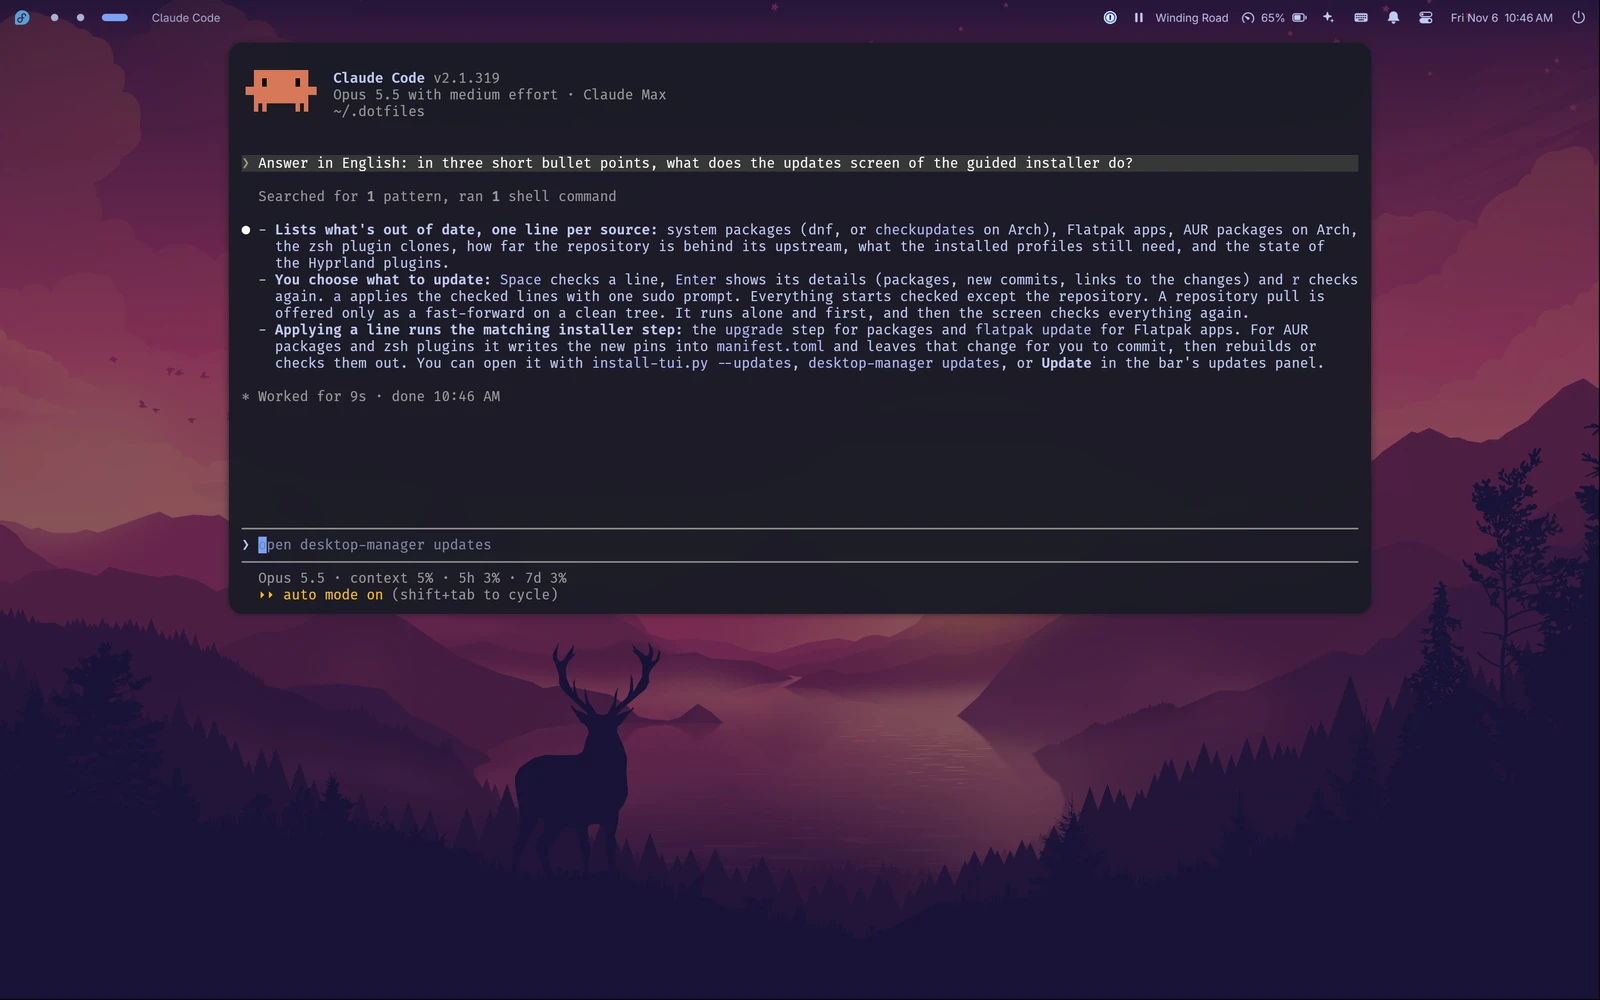
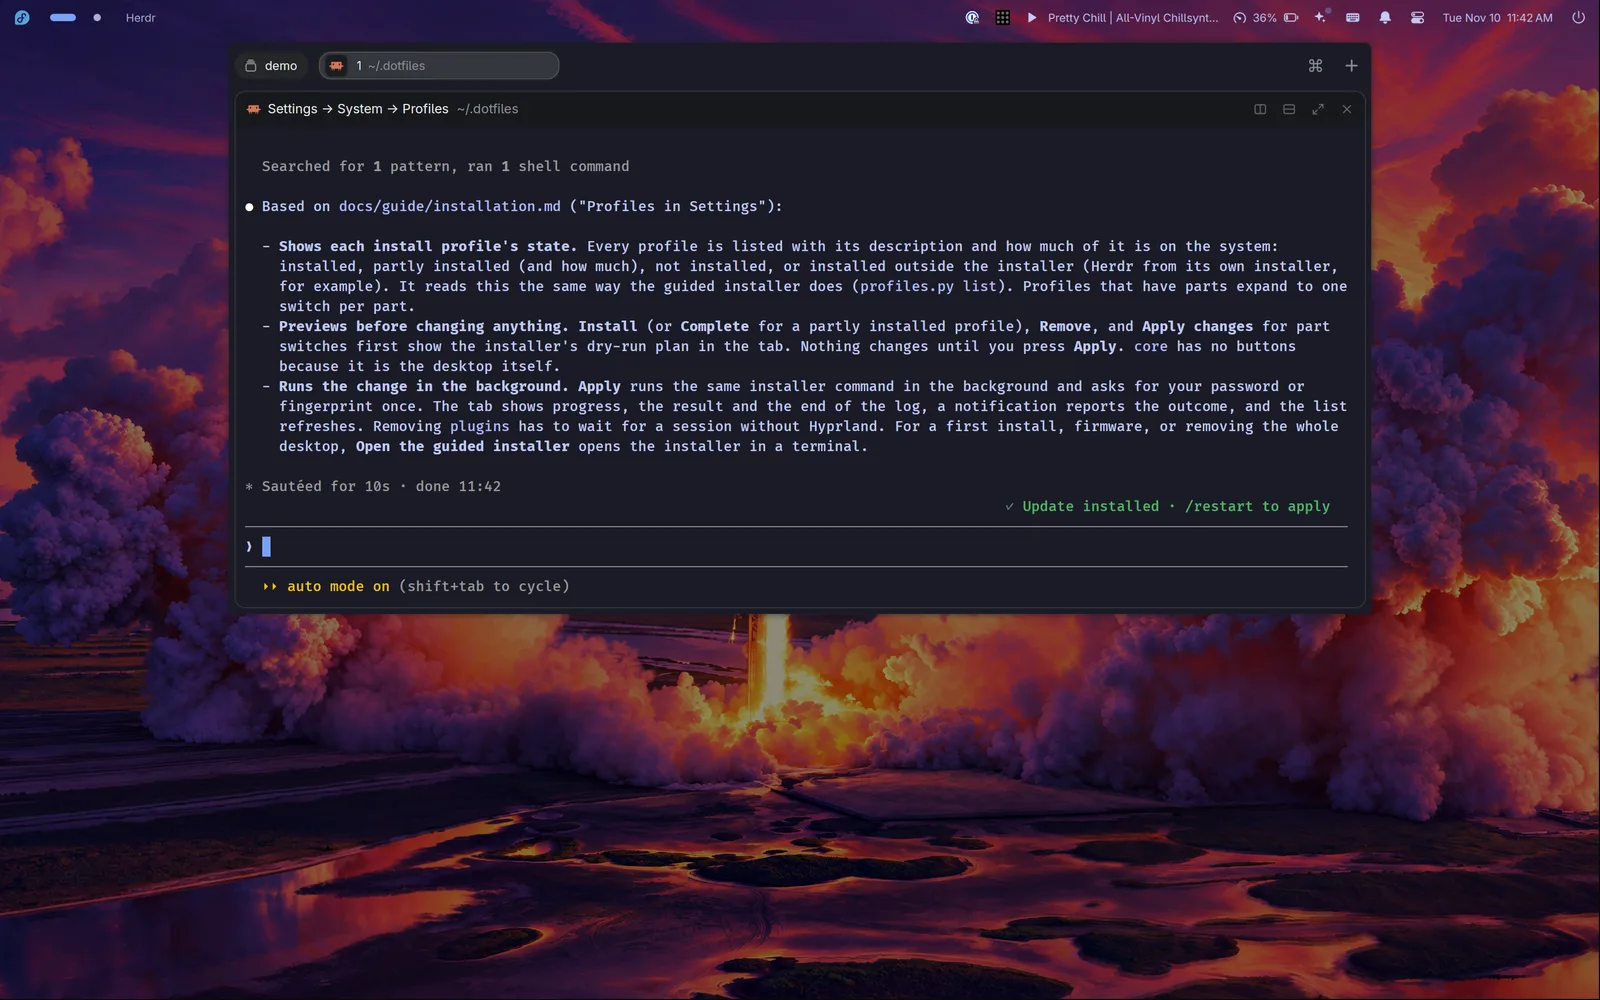
docs: README opening animation through Settings themes, the radio in the table, new pictures (#57)
The opening animation applies each theme from Settings → Appearance. The radio moves into "And the rest", which now holds the launcher, Control Center, themes, radio, notifications, emoji, on-screen keyboard and AI console; new launcher, themes and AI console (Herdr) pictures, and the KDE Store picture is dropped.

diff --git a/README.md b/README.md
@@ -15,7 +15,7 @@
 </p>
 
 <p align="center">
-  <img alt="The Theming panel switching themes live: wallpaper, shell, terminal and borders change together" src="docs/screenshots/themes.webp">
+  <img alt="Settings → Appearance applying each theme in turn: wallpaper, shell, bar, dock and borders change together" src="docs/screenshots/themes.webp">
 </p>
 
 ## Highlights
@@ -29,14 +29,6 @@ One shell, no external applets: bar, launcher, Control Center, dock, notificatio
 </p>
 
 `Super + I` opens one Settings panel for network, Bluetooth, displays, sound, power, appearance, the desktop, the AI assistant, keyboard, tablet and privacy. Its **System** section looks after the system with no terminal: it checks for updates and applies them, adds and removes [installer profiles](docs/guide/installation.md#profiles-in-settings) and rebuilds the [Hyprland plugins](docs/guide/plugins.md), in the background, behind one prompt. That prompt is the shell's own Polkit agent: on a machine with a fingerprint reader it asks for the fingerprint first, and **Use password** is one tap away.
-
-### Radio and music
-
-<p align="center">
-  <img alt="The Radio panel: the station list filtered as you type, then the video of the DJ set playing inside the panel" src="docs/screenshots/radio.webp" width="640">
-</p>
-
-`Super + M` opens the [Radio panel](docs/features/radio.md): web radio stations and vinyl DJ sets in categories, YouTube mixes and playlists found as you type, and the ones you save. The sound plays in an mpv of its own, on MPRIS like any other player, so the bar, the lock screen and the media keys control it; the video, when you want it, plays in the panel.
 
 ### An installer in profiles
 
@@ -53,12 +45,12 @@ The [installer](docs/guide/installation.md) comes in profiles: `core` is the des
 | --- | --- |
 | ![The application launcher](docs/screenshots/launcher.webp) | ![The Control Center](docs/screenshots/control-center.webp) |
 | **Launcher.** Apps as you type, then files, sums and unit conversions. | **Control Center.** Network, audio, brightness, media and switches. |
-| ![The Theming panel](docs/screenshots/theming.webp) | ![Icon themes from the KDE Store in the Theming panel](docs/screenshots/kde-store.webp) |
-| **[Themes that reach everything](docs/features/theming.md).** Shell, terminal, GTK and Qt apps, lock screen, wallpapers, fonts and icons in one click: eight themes, liquid Glass and High Contrast among them, plus one drawn from your wallpaper. | **KDE Store.** Cursor and icon themes, searched and installed in place. |
+| ![Settings → Appearance, with the theme cards](docs/screenshots/theming.webp) | ![The Radio panel: the station list filtered as you type, then the video of the DJ set playing inside the panel](docs/screenshots/radio.webp) |
+| **[Themes that reach everything](docs/features/theming.md).** Shell, terminal, GTK and Qt apps, lock screen, wallpapers, fonts and icons in one click: eight themes, liquid Glass and High Contrast among them, plus one drawn from your wallpaper, and cursor and icon themes from the KDE Store. | **[Radio and music](docs/features/radio.md).** `Super + M`: web radio stations and vinyl DJ sets, YouTube mixes and playlists found as you type, and the ones you save. The sound plays in an mpv of its own, on MPRIS like any other player, and the video, when you want it, in the panel. |
 | ![Notifications stacked in decks](docs/screenshots/notifications.webp) | ![The emoji picker](docs/screenshots/emoji.webp) |
 | **[Notifications in decks](docs/features/notifications.md).** One deck per app, or per site for browsers, opened on hover or tap. | **Emoji.** Search by name or browse by group, and paste into the focused window. |
-| ![The on-screen keyboard with word suggestions](docs/screenshots/keyboard.webp) | ![The AI console](docs/screenshots/console.webp) |
-| **[On-screen keyboard](docs/features/on-screen-keyboard.md).** Slide between keys, hit likely letters more easily, tap suggestions in Italian and English. It learns your words, and nothing you type leaves the machine. | **[AI console](docs/features/ai-assistant.md).** Claude Code, Codex or any coding agent dropping down from the bar, with a state icon, usage meters and a notification when it needs you. |
+| ![The on-screen keyboard with word suggestions](docs/screenshots/keyboard.webp) | ![The AI console: the Herdr app with Claude Code answering a question](docs/screenshots/console.webp) |
+| **[On-screen keyboard](docs/features/on-screen-keyboard.md).** Slide between keys, hit likely letters more easily, tap suggestions in Italian and English. It learns your words, and nothing you type leaves the machine. | **[AI console](docs/features/ai-assistant.md).** Claude Code, Codex or any coding agent dropping down from the bar in the Herdr app, with a state icon, usage meters and a notification when it needs you. |
 
 - **[A real tablet mode](docs/features/tablet-and-touch.md).** Fold the laptop and the shell grows its touch targets, the display follows the sensor, and gestures take over. Gesture touches never reach the app underneath, so a swipe over a video does not pause it.
 - **The small things.** Italian and English everywhere, Alt + Tab, per-app volume, a color picker and text from the screen, a camera and microphone indicator, Steam and gamescope launchers tuned for HiDPI, automounted drives, fingerprint unlock.

diff --git a/docs/development/verification-log.md b/docs/development/verification-log.md
@@ -1057,3 +1057,12 @@ Retaken on the live session with Tokyo Night and Omarchy's sunset-lake wallpaper
 - The four pins, the Hyprgrass patch included, built with `build.py` against the installed 0.57.2 headers: no errors, no unresolved libraries, and Hyprglass, Hyprgrass and HyprCapture embed the new commit. The builds are in `~/.cache/dotfiles/hyprpm-build/` under 0.57.2 keys, so the rebuild at the next login copies them instead of compiling.
 - In a nested 0.57.2 (no seat, `HYPRLAND_NO_SD_VARS`, `HYPRLAND_NO_SD_NOTIFY`, a private bus, temporary XDG directories; the runtime directory under `/run/user/1000`, since a socket path in the scratch folder is over the 108-byte limit): `hyprctl plugin load` of the four `.so`, then a reload with the real `appearance.lua` and `plugins.lua`. No config errors; `plugin:overview:panelHeight` 200, `plugin:hyprgrass:sensitivity` 4, `touch_as_pointer` and `hold_touches` true; the overview opened and closed through `hl.plugin.overview.toggle()`; `hyprctl hyprglass stats` counted frames; the compositor exited cleanly.
 - `VERIFIED` now has `0.57.2-1.fc45.x86_64` next to `0.57.1-1.fc45.x86_64` (a downgrade stays possible) and Arch's `0.57.1-1`; Arch's 0.57.2 is not compiled yet. Still to see: the rebuild at the next login on the machine, and the plugins in daily use.
+
+## README pictures, second pass, 2026-11-10
+
+- Asked by the user: the opening animation still showed the old Theming panel, the radio belongs in the table, and the launcher, Themes and AI console pictures were out of date. The KDE Store picture left the table (the Themes caption names the store).
+- `themes.webp`: Settings → Appearance → Theme, with each theme applied from the panel itself (arrow keys and Enter, as a user would), one `grim` still about 4.5 s after each, joined with 0.4 s crossfades and duplicate frames dropped (960 × 600, 18 s, under 1 MB), ending on the first frame so the loop is seamless.
+- Found while shooting: a theme set from outside the panel (`desktop-theme set`) while the Theme tab is open leaves the **Current** label on the old card; applied from the panel it follows. Not fixed here.
+- `radio.webp`: the earlier take, now the whole screen (800 × 500) like the other pictures in the table.
+- `console.webp`: a separate Herdr space, `demo`, made with `herdr-app do space.new` (Claude Code with `--settings '{"language":"english"}'` and one question about Settings → System → Profiles), shown with `terminal.show`, then closed (`space.close`). The working session's space was never on screen.
+- `launcher.webp` and `theming.webp`: the launcher with nothing typed (a short query matched three apps, a sum left the panel empty), and the Theme tab on Tokyo Night. Afterwards Gruvbox, the Italian shell, the cursor and the console were put back.

diff --git a/docs/development/roadmap.md b/docs/development/roadmap.md
@@ -366,5 +366,5 @@ Found during the October 27, 2026 repository review. Checked items were approved
     - [x] The repository in the bar's check (#26, 2026-11-07): `updates.py` fetches this clone's upstream branch (never prompting) with the packages and Flatpak; the icon counts its new commits as one update, a notification announces them, the panel and Settings → Updates list them and say when the clone has commits of its own or local changes; a pull from the updates screen checks the repository again (`desktop-updates check repository`).
     - [x] Installer profiles managed from Settings (#28, requested 2026-11-07). Part 2 done 2026-11-07: Settings → System → Profiles (`profiles.py`) lists every profile with its state, Install or Complete opens the guided installer with it added (`--add`), Remove on its removal review (`--remove`), for profiles the installer recorded. Part 1: `install-desktop.py --remove PROFILES` and **Remove profiles** in the guided installer (`--add`, `--remove` to start on them) undo only what the record holds, the removed profiles name and no profile that stays names; packages of profiles that stay are kept from dnf's removal of dependents; `plugins` only from a console; the record drops the profile and what went.
 - [x] README refreshed (2026-11-06): Arch Linux badge and subtitle, eight themes and the KDE Store, the guided installer and its updates screen, the newer small features; all screenshots retaken (English shell, demo content) and two new ones, the KDE Store page and the emoji picker.
-- [x] README refreshed again (2026-11-10): highlights and gallery in one section, led by Settings (a cycle through its sections), the Radio panel (a recording with the video in the panel) and the installer in profiles (the guided installer and Settings → System → Profiles with their parts open); English shell, Tokyo Night, no personal data.
+- [x] README refreshed again (2026-11-10): highlights and gallery in one section, led by Settings (a cycle through its sections), the Radio panel (a recording with the video in the panel) and the installer in profiles (the guided installer and Settings → System → Profiles with their parts open); English shell, Tokyo Night, no personal data. Second pass the same day: the opening animation through the themes in Settings → Appearance, the radio moved into the table, new launcher, Themes and AI console (Herdr) pictures, the KDE Store picture dropped.
 - [ ] Debian: a manifest table and a module with the functions of `install/fedora.py`, with names checked on Debian; `authselect` in `tablet-auth.sh` as on Arch.
